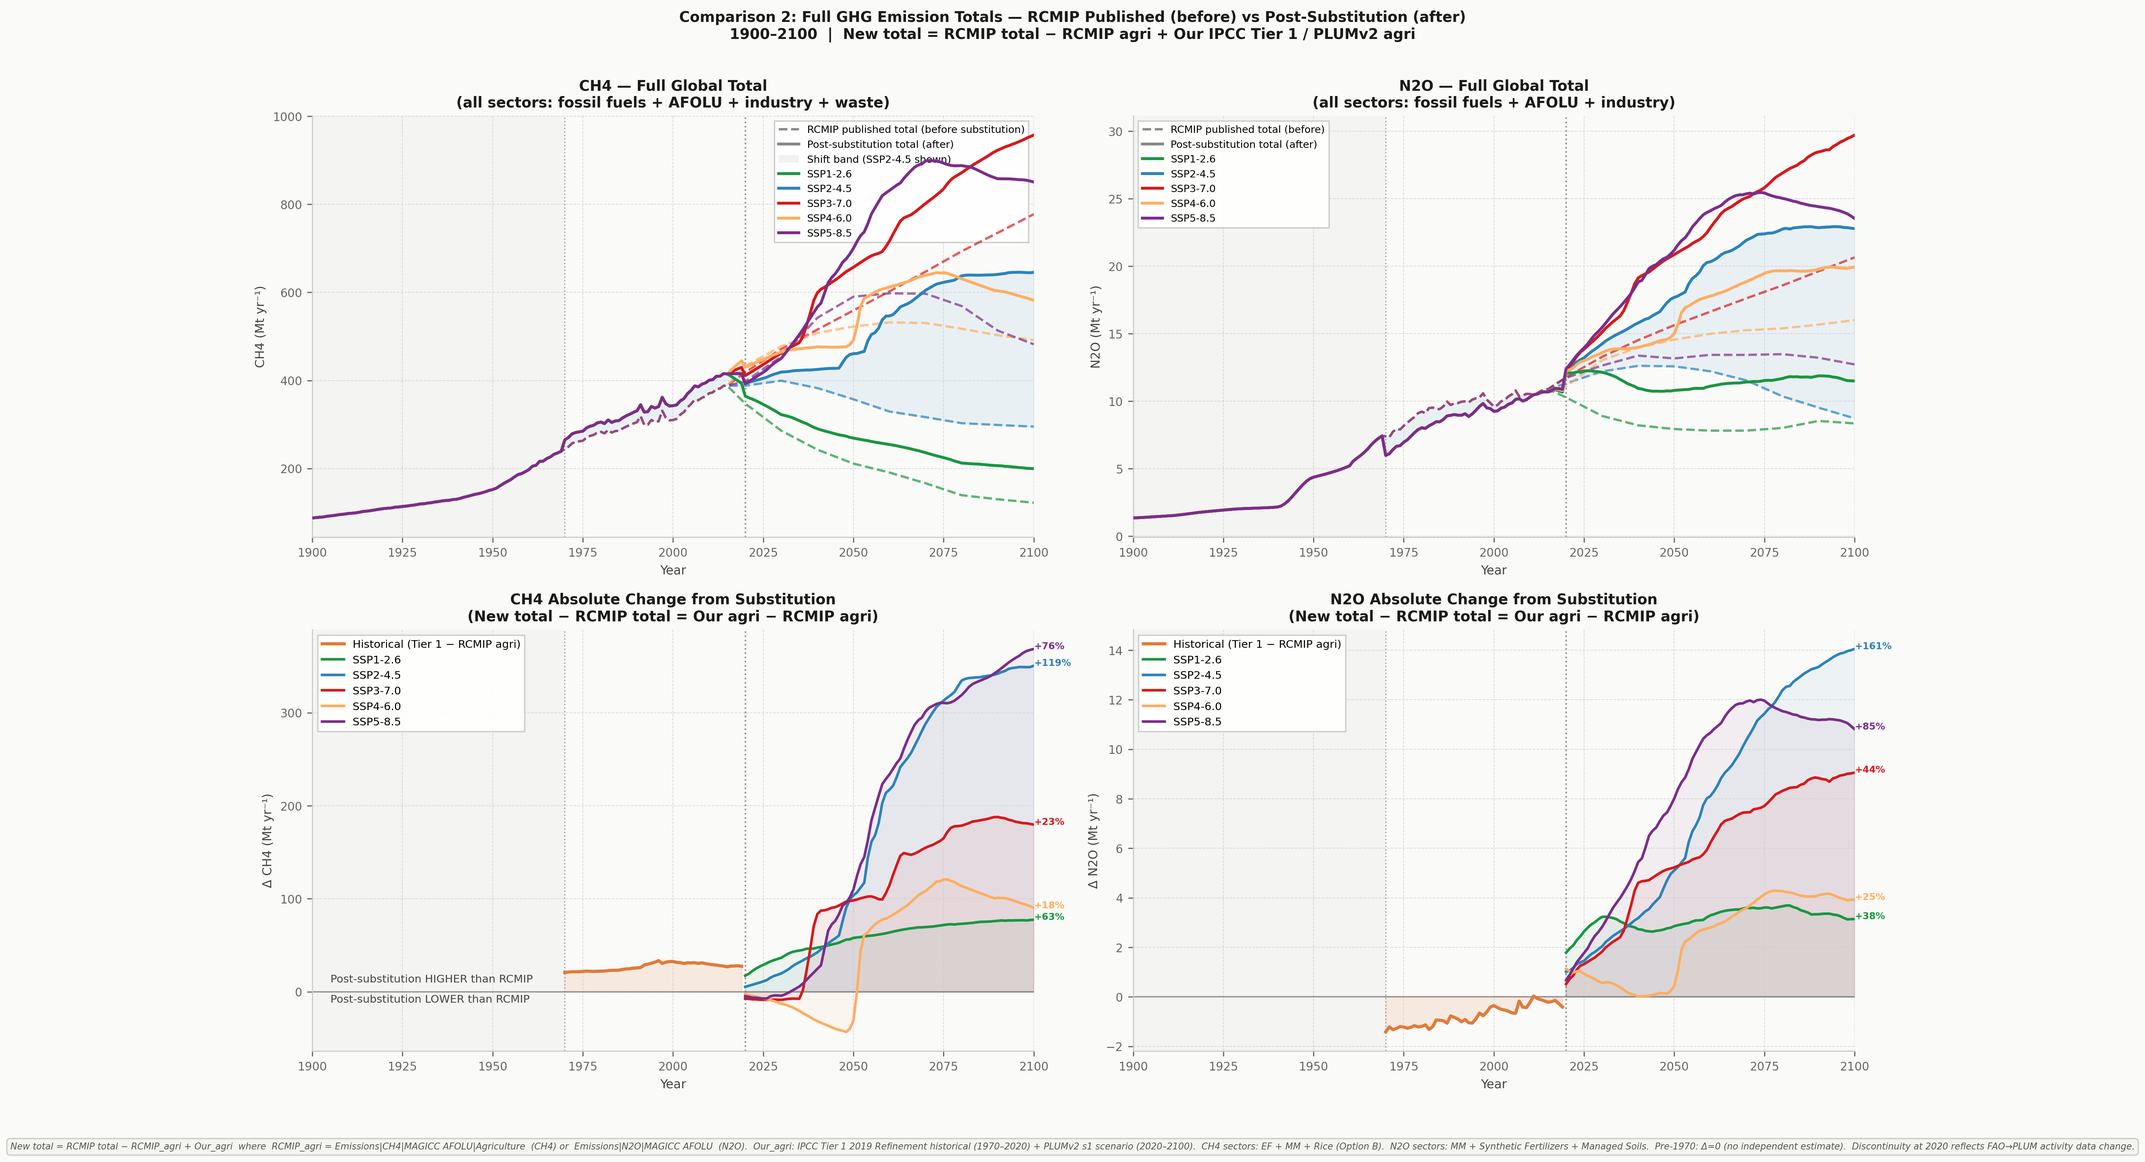
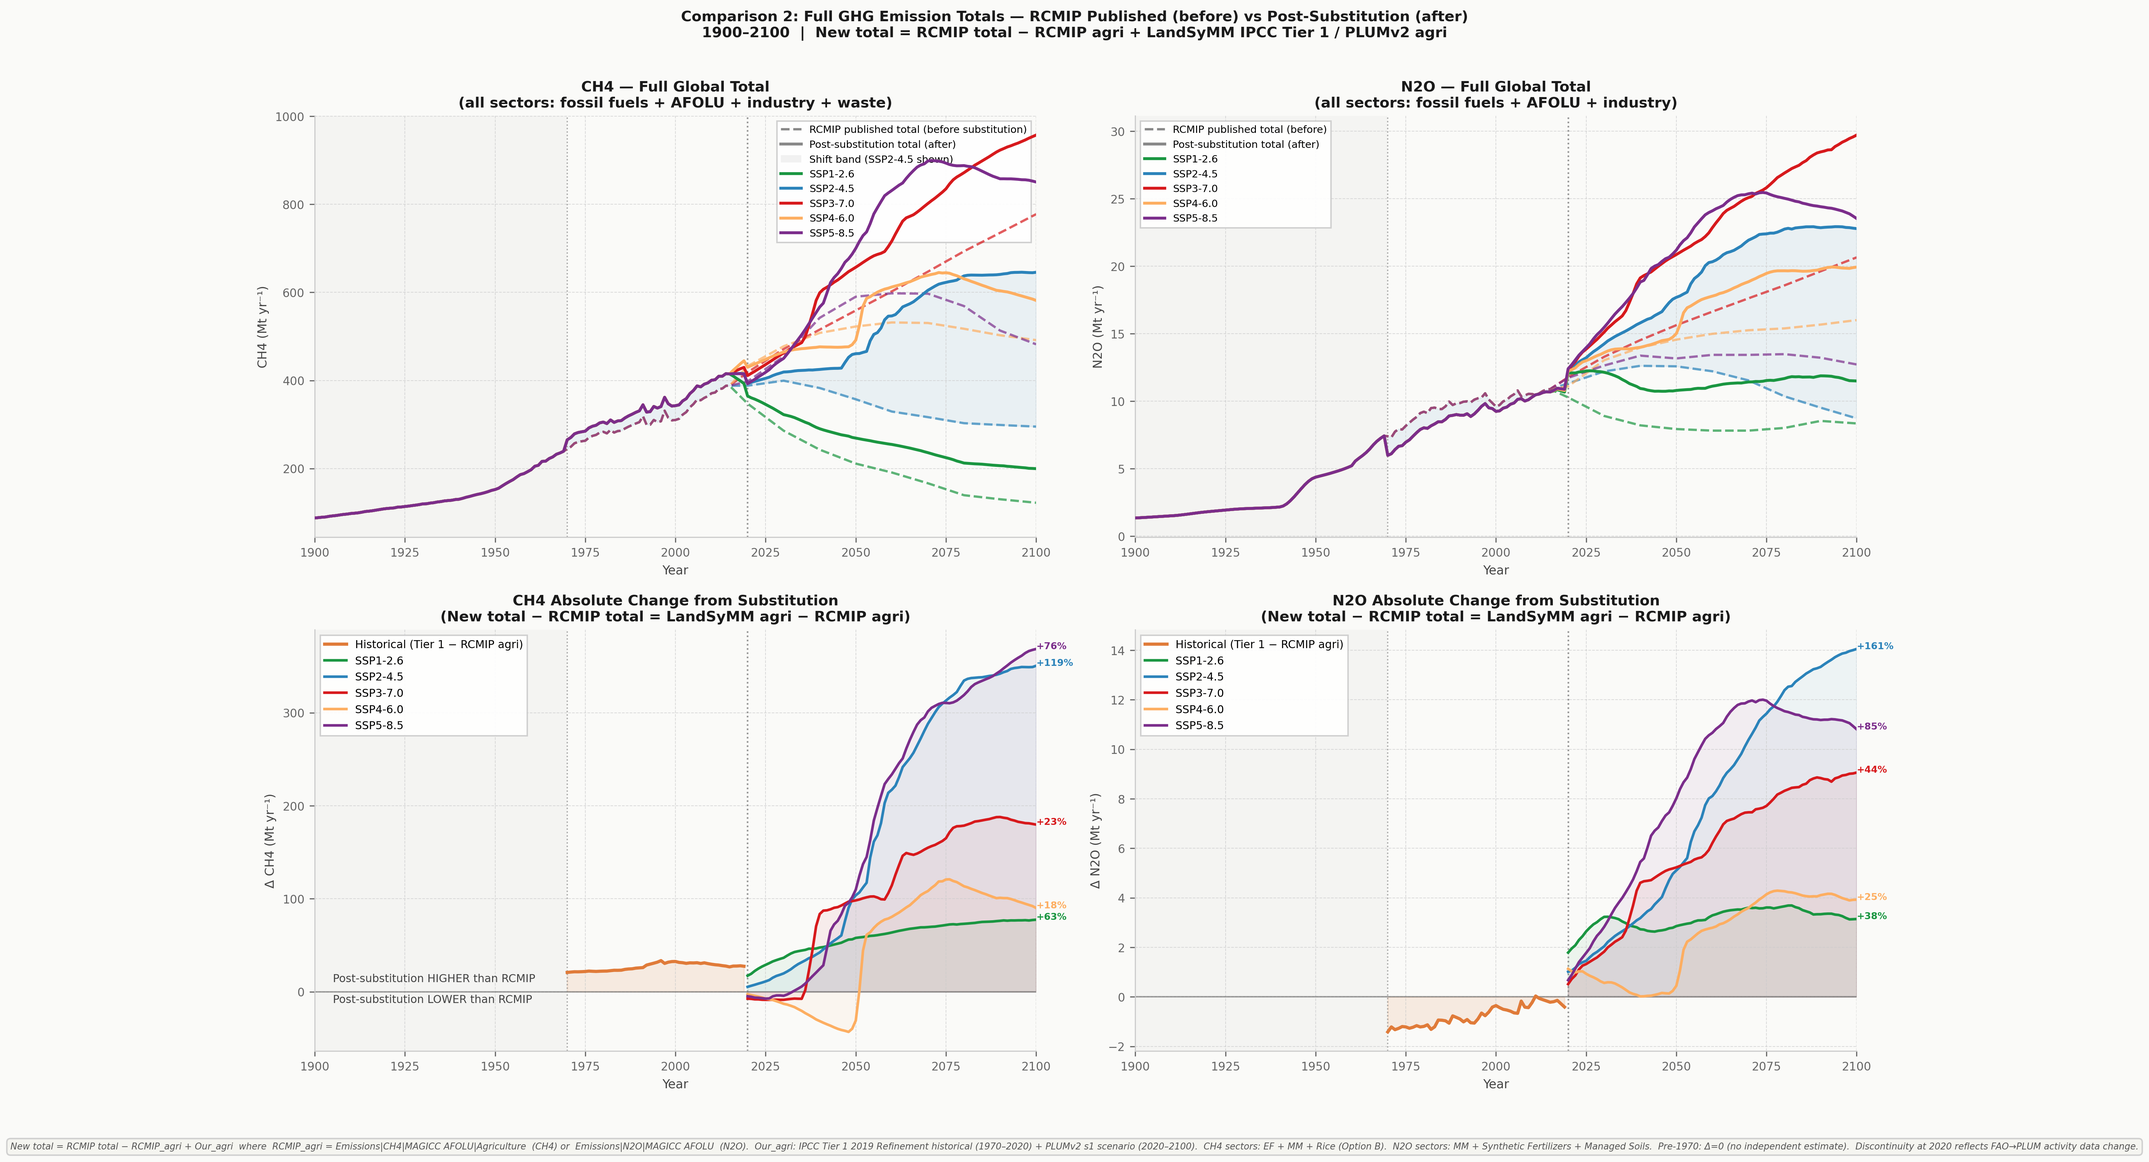
paper: LandSyMM rebranding of emissions plot labels + rice SFo KNOWN ISSUE docs
Relabel emissions-comparison plots (component_a historical/scenario/rcmip_substitution
and component_c integration) from "Our IPCC Tier 1 / Our estimate" to "LandSyMM ...",
matching the manuscript naming; regenerate the affected trend/comparison PNGs.

Document (do not fix) the irrigated-rice SFo organic-amendment scaling as a KNOWN
ISSUE in ch4_rice_processing.py and 06_scenario_ch4_rice_processing.py: code uses
IPCC Eq. 5.3 "Form B" [1 + (ROA*CFOA)^0.59] vs published "Form A"
(1 + sum ROA*CFOA)^0.59 (~+30% on the amendment term, ~1% on total CH4); deferred
to avoid a Component-A/production rerun.

diff --git a/intermediary_py/imogen_ghg_controller/src/component_a_anthropogenic/rcmip_substitution/rcmip_comparison1_plotting.py b/intermediary_py/imogen_ghg_controller/src/component_a_anthropogenic/rcmip_substitution/rcmip_comparison1_plotting.py
@@ -104,7 +104,7 @@ fig, axes = plt.subplots(2, 2, figsize=(16, 11))
 fig.patch.set_facecolor('#fafaf8')
 for ax in axes.flat: ax.set_facecolor('#fafaf8')
 fig.suptitle(
-    'Comparison 1: Agricultural Sector GHG Emissions — RCMIP Baseline vs Our IPCC Tier 1 / PLUMv2 Estimates\n'
+    'Comparison 1: Agricultural Sector GHG Emissions — RCMIP Baseline vs LandSyMM IPCC Tier 1 / PLUMv2 Estimates\n'
     '1900\u20132100  |  Five SSP-RCP scenarios  |  '
     'CH4: EF + MM + Rice  |  N2O: MM + Synthetic Fertilizers + Managed Soils',
     fontsize=10, fontweight='bold', color='#1a1a1a', y=0.995)
@@ -116,14 +116,14 @@ legend_handles = [
     Line2D([0],[0], color=C_RCMIP_PRE, lw=1.8, ls='--',
            label='RCMIP baseline (MAGICC AFOLU|Agriculture)\nhistorical 1900\u20132014, then SSP 2015\u20132100 [dashed]'),
     Line2D([0],[0], color=C_HIST_OUR, lw=2.2, ls='-',
-           label='Our IPCC Tier 1 historical (1970\u20132020)\n[orange solid]'),
+           label='LandSyMM IPCC Tier 1 historical (1970\u20132020)\n[orange solid]'),
     Line2D([0],[0], color='#333333', lw=1.2, ls=':',
            label='Vertical lines: 1970 (inventory start) | 2020 (hist\u2192scenario splice)'),
 ]
 for s in SCENARIOS:
     legend_handles.append(
         Line2D([0],[0], color=COLORS[s], lw=2,
-               label=f'{s}  RCMIP=dashed  Our PLUMv2=solid')
+               label=f'{s}  RCMIP=dashed  LandSyMM PLUMv2=solid')
     )
 
 # ── Panel 1: CH4 agricultural sectors ────────────────────────────────────────
@@ -191,9 +191,9 @@ n2o_handles = [
     Line2D([0],[0], color=C_RCMIP_PRE, lw=1.8, ls='--',
            label='RCMIP AFOLU baseline (dashed)'),
     Line2D([0],[0], color=C_HIST_OUR,  lw=2.2, ls='-',
-           label='Our Tier 1 historical (solid orange)'),
+           label='LandSyMM Tier 1 historical (solid orange)'),
 ] + [Line2D([0],[0], color=COLORS[s], lw=2,
-            label=f'{s}  RCMIP=dashed / Ours=solid') for s in SCENARIOS]
+            label=f'{s}  RCMIP=dashed / LandSyMM=solid') for s in SCENARIOS]
 ax.legend(handles=n2o_handles, fontsize=7, loc='upper left',
           framealpha=0.92, edgecolor=SC, fancybox=False)
 
@@ -217,11 +217,11 @@ for s in SCENARIOS:
                     alpha=0.06, color=COLORS[s])
 
 ax.axhline(0, color='#888888', lw=1.0, ls='-', alpha=0.5)
-ax.text(1905, 2, 'Our estimate ABOVE RCMIP', fontsize=7.5,
+ax.text(1905, 2, 'LandSyMM estimate ABOVE RCMIP', fontsize=7.5,
         color='#444444', va='bottom')
-ax.text(1905, -2, 'Our estimate BELOW RCMIP', fontsize=7.5,
+ax.text(1905, -2, 'LandSyMM estimate BELOW RCMIP', fontsize=7.5,
         color='#444444', va='top')
-ax.set_title('CH4 Difference: Our Estimate \u2212 RCMIP Baseline', **TK)
+ax.set_title('CH4 Difference: LandSyMM Estimate \u2212 RCMIP Baseline', **TK)
 ax.set_ylabel('\u0394 CH4 (Mt yr\u207b\u00b9)', **LK)
 ax.set_xlabel('Year', **LK)
 style_ax(ax)
@@ -246,7 +246,7 @@ for s in SCENARIOS:
                     alpha=0.06, color=COLORS[s])
 
 ax.axhline(0, color='#888888', lw=1.0, ls='-', alpha=0.5)
-ax.set_title('N2O Difference: Our Estimate \u2212 RCMIP Baseline', **TK)
+ax.set_title('N2O Difference: LandSyMM Estimate \u2212 RCMIP Baseline', **TK)
 ax.set_ylabel('\u0394 N2O (Mt yr\u207b\u00b9)', **LK)
 ax.set_xlabel('Year', **LK)
 style_ax(ax)

diff --git a/intermediary_py/imogen_ghg_controller/src/component_a_anthropogenic/historical/ch4_rice_plotting.py b/intermediary_py/imogen_ghg_controller/src/component_a_anthropogenic/historical/ch4_rice_plotting.py
@@ -63,7 +63,7 @@ fig.suptitle('CH4 Emissions -- Rice Cultivation\nIPCC 2019 Tier 1 vs FAO FAOSTAT
 ax=axes[0,0]; ax.fill_between(yr,fao,our,alpha=0.10,color=CO)
 ax.plot(yr,rcmip_rice,color=CR,linewidth=2.0,linestyle=RL,label='RCMIP CMIP6 (EDGAR prop.)')
 ax.plot(yr,edgar,color=CE,linewidth=1.8,linestyle='-.',label='EDGAR 2025 (3.C.7)')
-ax.plot(yr,our,color=CO,linewidth=2.0,label='Our IPCC 2019 Tier 1')
+ax.plot(yr,our,color=CO,linewidth=2.0,label='LandSyMM IPCC 2019 Tier 1')
 ax.plot(yr,fao,color=CF,linewidth=2.5,linestyle=':',label='FAO TIER 1')
 ax.set_title('Global CH4 Totals',**TK); ax.set_ylabel('CH4 (Mt yr\u207b\u00b9)',**LK); ax.set_xlabel('Year',**LK); sax(ax,(15,40)); ax.legend(fontsize=8,loc='upper left',framealpha=0.9,edgecolor=SC,fancybox=False)
 ax=axes[0,1]; ax.stackplot(yr,[irrig,rainfed],labels=['Irrigated','Rainfed'],colors=['#3288bd','#66c2a5'],alpha=0.80)
@@ -76,7 +76,7 @@ _lo,_hi=emp_band(fao,our,edgar,rcmip_rice)
 ax.fill_between(yr,_lo,_hi,alpha=0.18,color='#888888',label='Inter-method spread')
 ax.plot(yr,rcmip_rice/fao,color=CR,linewidth=2.0,linestyle=RL,label='RCMIP-derived / FAO')
 ax.plot(yr,edgar/fao,color=CE,linewidth=1.8,linestyle='-.',label='EDGAR / FAO')
-ax.plot(yr,our/fao,color=CO,linewidth=2.0,label='Our estimate / FAO')
+ax.plot(yr,our/fao,color=CO,linewidth=2.0,label='LandSyMM estimate / FAO')
 ax.set_title('Ratio to FAO Published CH4',**TK); ax.set_ylabel('Ratio (Series / FAO)',**LK); ax.set_xlabel('Year',**LK); sax(ax,(0.85,1.45)); ax.legend(fontsize=8,loc='upper right',framealpha=0.9,edgecolor=SC,fancybox=False)
 ax=axes[1,1]; ax.stackplot(yr,[rr.get(r,np.zeros(51)) for r in RR],labels=RR,colors=[RC2[r] for r in RR],alpha=0.80)
 ax.plot(yr,rcmip_rice,color=CR,linewidth=2.0,linestyle=RL,label='RCMIP total',zorder=11)

diff --git a/intermediary_py/imogen_ghg_controller/src/component_a_anthropogenic/historical/ch4_mm_plotting.py b/intermediary_py/imogen_ghg_controller/src/component_a_anthropogenic/historical/ch4_mm_plotting.py
@@ -71,7 +71,7 @@ fig.suptitle('CH4 Emissions -- Manure Management\nIPCC 2019 Tier 1 vs FAO FAOSTA
 ax=axes[0,0]; ax.fill_between(yr,fao,our,alpha=0.10,color=CO)
 ax.plot(yr,rcmip_mm,color=CR,linewidth=2.0,linestyle=RL,label='RCMIP CMIP6 (EDGAR prop.)')
 ax.plot(yr,edgar,color=CE,linewidth=1.8,linestyle='-.',label='EDGAR 2025 (3.A.2)')
-ax.plot(yr,our,color=CO,linewidth=2.0,label='Our IPCC 2019 Tier 1')
+ax.plot(yr,our,color=CO,linewidth=2.0,label='LandSyMM IPCC 2019 Tier 1')
 ax.plot(yr,fao,color=CF,linewidth=2.5,linestyle=':',label='FAO TIER 1')
 ax.set_title('Global CH4 Totals',**TK); ax.set_ylabel('CH4 (Mt yr\u207b\u00b9)',**LK); ax.set_xlabel('Year',**LK); sax(ax,(5,18)); ax.legend(fontsize=8,loc='upper left',framealpha=0.9,edgecolor=SC,fancybox=False)
 ax=axes[0,1]; ax.stackplot(yr,sp,labels=SPL,colors=SC2,alpha=0.80)
@@ -84,7 +84,7 @@ _lo,_hi=emp_band(fao,our,edgar,rcmip_mm)
 ax.fill_between(yr,_lo,_hi,alpha=0.18,color='#888888',label='Inter-method spread')
 ax.plot(yr,rcmip_mm/fao,color=CR,linewidth=2.0,linestyle=RL,label='RCMIP-derived / FAO')
 ax.plot(yr,edgar/fao,color=CE,linewidth=1.8,linestyle='-.',label='EDGAR / FAO')
-ax.plot(yr,our/fao,color=CO,linewidth=2.0,label='Our estimate / FAO')
+ax.plot(yr,our/fao,color=CO,linewidth=2.0,label='LandSyMM estimate / FAO')
 ax.set_title('Ratio to FAO Published CH4',**TK); ax.set_ylabel('Ratio (Series / FAO)',**LK); ax.set_xlabel('Year',**LK); sax(ax,(0.85,1.65)); ax.legend(fontsize=8,loc='upper left',framealpha=0.9,edgecolor=SC,fancybox=False)
 ax=axes[1,1]; ro=['Indian Subcontinent','Asia','Latin America','Africa','North America','Eastern Europe','Western Europe','Middle East','Oceania']
 ax.stackplot(yr,[rd.get(r,np.zeros(51)) for r in ro],labels=ro,colors=[RC[r] for r in ro],alpha=0.80)

diff --git a/intermediary_py/imogen_ghg_controller/src/component_a_anthropogenic/historical/ch4_ef_plotting.py b/intermediary_py/imogen_ghg_controller/src/component_a_anthropogenic/historical/ch4_ef_plotting.py
@@ -128,7 +128,7 @@ ax = axes[0,0]
 ax.fill_between(yr, fao, our_tot, alpha=0.10, color=C_OUR)
 ax.plot(yr, rcmip_ef,  color=C_RCP, linewidth=2.0, linestyle=RLS,  label='RCMIP CMIP6 (EDGAR prop.)')
 ax.plot(yr, edgar,     color=C_EDG, linewidth=1.8, linestyle='-.', label='EDGAR 2025 (3.A.1)')
-ax.plot(yr, our_tot,   color=C_OUR, linewidth=2.0,                 label='Our IPCC 2019 Tier 1')
+ax.plot(yr, our_tot,   color=C_OUR, linewidth=2.0,                 label='LandSyMM IPCC 2019 Tier 1')
 ax.plot(yr, fao,       color=C_FAO, linewidth=2.5, linestyle=':',  label='FAO TIER 1')
 ax.set_title('Global CH4 Totals', **TK)
 ax.set_ylabel('CH4 (Mt yr⁻¹)', **LK); ax.set_xlabel('Year', **LK)
@@ -150,10 +150,10 @@ ax.legend(fontsize=7, loc='upper left', framealpha=0.9, edgecolor=SC, fancybox=F
 ax = axes[1,0]
 ax.axhline(1.0, color='#888888', linewidth=1.2)
 _lo,_hi=emp_band(fao,our_tot,edgar,rcmip_ef)
-ax.fill_between(yr,_lo,_hi,alpha=0.18,color='#888888',label='Inter-method spread (Our/FAO, EDGAR/FAO, RCMIP/FAO)')
+ax.fill_between(yr,_lo,_hi,alpha=0.18,color='#888888',label='Inter-method spread (LandSyMM/FAO, EDGAR/FAO, RCMIP/FAO)')
 ax.plot(yr, rcmip_ef/fao, color=C_RCP, linewidth=2.0, linestyle=RLS,  label='RCMIP-derived / FAO')
 ax.plot(yr, edgar/fao,    color=C_EDG, linewidth=1.8, linestyle='-.', label='EDGAR / FAO')
-ax.plot(yr, our_tot/fao,  color=C_OUR, linewidth=2.0,                 label='Our estimate / FAO')
+ax.plot(yr, our_tot/fao,  color=C_OUR, linewidth=2.0,                 label='LandSyMM estimate / FAO')
 ax.set_title('Ratio to FAO Published CH4', **TK)
 ax.set_ylabel('Ratio (Series / FAO)', **LK); ax.set_xlabel('Year', **LK)
 sax(ax, (0.70,1.55))

diff --git a/intermediary_py/imogen_ghg_controller/src/component_a_anthropogenic/rcmip_substitution/rcmip_comparison2_plotting.py b/intermediary_py/imogen_ghg_controller/src/component_a_anthropogenic/rcmip_substitution/rcmip_comparison2_plotting.py
@@ -76,7 +76,7 @@ for ax in axes.flat: ax.set_facecolor('#fafaf8')
 fig.suptitle(
     'Comparison 2: Full GHG Emission Totals — RCMIP Published (before) vs '
     'Post-Substitution (after)\n'
-    '1900\u20132100  |  New total = RCMIP total \u2212 RCMIP agri + Our IPCC Tier 1 / PLUMv2 agri',
+    '1900\u20132100  |  New total = RCMIP total \u2212 RCMIP agri + LandSyMM IPCC Tier 1 / PLUMv2 agri',
     fontsize=10, fontweight='bold', color='#1a1a1a', y=0.995)
 
 # Reference arrays: SSP2-4.5 historical segment (1970-2019) for single difference line
@@ -181,7 +181,7 @@ ax.text(1905, 8, 'Post-substitution HIGHER than RCMIP', fontsize=7.5,
 ax.text(1905, -3, 'Post-substitution LOWER than RCMIP', fontsize=7.5,
         color='#444444', va='top')
 ax.set_title('CH4 Absolute Change from Substitution\n'
-             '(New total \u2212 RCMIP total = Our agri \u2212 RCMIP agri)', **TK)
+             '(New total \u2212 RCMIP total = LandSyMM agri \u2212 RCMIP agri)', **TK)
 ax.set_ylabel('\u0394 CH4 (Mt yr\u207b\u00b9)', **LK)
 ax.set_xlabel('Year', **LK)
 style_ax(ax)
@@ -209,7 +209,7 @@ for s in SCENARIOS:
 
 ax.axhline(0, color='#666666', lw=1.0, alpha=0.6)
 ax.set_title('N2O Absolute Change from Substitution\n'
-             '(New total \u2212 RCMIP total = Our agri \u2212 RCMIP agri)', **TK)
+             '(New total \u2212 RCMIP total = LandSyMM agri \u2212 RCMIP agri)', **TK)
 ax.set_ylabel('\u0394 N2O (Mt yr\u207b\u00b9)', **LK)
 ax.set_xlabel('Year', **LK)
 style_ax(ax)

diff --git a/intermediary_py/imogen_ghg_controller/src/component_a_anthropogenic/scenarios/06_scenario_ch4_rice_processing.py b/intermediary_py/imogen_ghg_controller/src/component_a_anthropogenic/scenarios/06_scenario_ch4_rice_processing.py
@@ -160,7 +160,16 @@ SFP = 1.00
 # Organic amendment scaling — Table 5.14 (Eq. 5.3: 1 + (ROA×CFOA)^0.59)
 # Irrigated: 2 t/ha dry straw incorporated (Yan et al. global median)
 ROA_STRAW  = 2.0;  CFOA_STRAW = 1.00;  EXP_SFO = 0.59
-SFO_IRRIGATED = 1.0 + (ROA_STRAW * CFOA_STRAW) ** EXP_SFO   # = 2.508
+# KNOWN ISSUE (flagged 2026-05-30): the line below is IPCC Eq. 5.3 "Form B"
+# [ 1 + (ROA*CFOA)^0.59 ]. The published 2019 Refinement Eq. 5.3 (Vol.4 Ch.5,
+# p.5.55) is "Form A": SFo = (1 + sum_i ROA_i*CFOA_i)^0.59 — the 0.59 exponent
+# applies to the WHOLE (1 + sum). For ROA=2, CFOA=1.0 this overstates irrigated
+# SFo: Form B = 2.508 vs correct Form A = (1+2)^0.59 = 1.927 (~ +30% on the
+# amendment term). Deliberately left unfixed for now to avoid a Component-A /
+# production rerun (effect on total CH4 ~1%); see paper/PAPER_REVAMP_PLAN_AND_LOG.md
+# §13. Revisit before any final emissions release. Correct form would be:
+#   SFO_IRRIGATED = (1.0 + ROA_STRAW * CFOA_STRAW) ** EXP_SFO
+SFO_IRRIGATED = 1.0 + (ROA_STRAW * CFOA_STRAW) ** EXP_SFO   # = 2.508 (Form B; see note above)
 SFO_RAINFED   = 1.00   # straw burned/removed in rainfed systems
 
 # Pre-compute adjusted daily EF per RICE REGION × water class

diff --git a/intermediary_py/imogen_ghg_controller/src/component_c_integration/external_comparators_plotting.py b/intermediary_py/imogen_ghg_controller/src/component_c_integration/external_comparators_plotting.py
@@ -168,7 +168,7 @@ for ax in axes.flat: ax.set_facecolor('#fafaf8')
 
 fig.suptitle(
     'Integrated GHG Emission Trajectories vs Independent External Comparators | 1900-2100 | Five SSP-RCP Scenarios\n'
-    'Our integrated total = anthropogenic (RCMIP-substituted CH4/N2O or RCMIP EFOS for CO2) + natural (LPJ-GUESS DGVM)\n'
+    'LandSyMM integrated total = anthropogenic (RCMIP-substituted CH4/N2O or RCMIP EFOS for CO2) + natural (LPJ-GUESS DGVM)\n'
     'External comparator = atmospheric-inversion top-down totals (GMB 2025 / GNB 2024) or budget partition (GCB 2025)',
     fontsize=11, fontweight='bold', color='#1a1a1a', y=0.995)
 
@@ -251,7 +251,7 @@ def panel_residuals(ax, gas):
     ax.axhline(0, color='#888888', lw=0.7, alpha=0.5)
     ax.set_xticks(x_periods)
     ax.set_xticklabels(cmp['Period_label'].values, fontsize=8)
-    ax.set_title(f'{gas} residual: Our integrated − comparator best',
+    ax.set_title(f'{gas} residual: LandSyMM integrated − comparator best',
                  fontsize=10, fontweight='bold', color='#1a1a1a', pad=4)
     ax.set_ylabel(f'Δ ({UNIT[gas]})', **LK)
     ax.set_xlabel('Reference period', **LK)

diff --git a/intermediary_py/imogen_ghg_controller/src/component_a_anthropogenic/historical/ch4_rice_processing.py b/intermediary_py/imogen_ghg_controller/src/component_a_anthropogenic/historical/ch4_rice_processing.py
@@ -327,6 +327,15 @@ ROA_STRAW     = 2.0    # tonne ha-1 (dry weight), global median from Yan et al.
 CFOA_STRAW    = 1.00   # straw incorporated <30 days before cultivation, Table 5.14
 EXP_SFO       = 0.59   # exponent in Equation 5.3
 
+# KNOWN ISSUE (flagged 2026-05-30): the line below is IPCC Eq. 5.3 "Form B"
+# [ 1 + (ROA*CFOA)^0.59 ]. The published 2019 Refinement Eq. 5.3 (Vol.4 Ch.5,
+# p.5.55) is "Form A": SFo = (1 + sum_i ROA_i*CFOA_i)^0.59 — the 0.59 exponent
+# applies to the WHOLE (1 + sum). For ROA=2, CFOA=1.0 this overstates irrigated
+# SFo: Form B = 2.508 vs correct Form A = (1+2)^0.59 = 1.927 (~ +30% on the
+# amendment term). Deliberately left unfixed for now to avoid a Component-A /
+# production rerun (effect on total CH4 ~1%); see paper/PAPER_REVAMP_PLAN_AND_LOG.md
+# §13. Revisit before any final emissions release. Correct form would be:
+#   SFO_IRRIGATED = (1.0 + ROA_STRAW * CFOA_STRAW) ** EXP_SFO
 SFO_IRRIGATED = 1.0 + (ROA_STRAW * CFOA_STRAW) ** EXP_SFO
 SFO_RAINFED   = 1.00   # rainfed/upland: straw typically burned or removed
 SFO_UPLAND    = 1.00

diff --git a/intermediary_py/imogen_ghg_controller/src/component_a_anthropogenic/historical/n2o_ms_plotting.py b/intermediary_py/imogen_ghg_controller/src/component_a_anthropogenic/historical/n2o_ms_plotting.py
@@ -176,7 +176,7 @@ ax.legend(fontsize=8, loc="lower left", framealpha=0.9, edgecolor=SC, fancybox=F
 ax = axes[1,1]
 ax.stackplot(yr, [reg_np19.get(r,np.zeros(51)) for r in ro], labels=ro,
              colors=[RC_COLS[r] for r in ro], alpha=0.80)
-ax.plot(yr, t_wp19,   color=C_WP19, linewidth=2.0, linestyle="-",  label="Our total WITH PRP", zorder=13)
+ax.plot(yr, t_wp19,   color=C_WP19, linewidth=2.0, linestyle="-",  label="LandSyMM total WITH PRP", zorder=13)
 ax.plot(yr, fao_wp,   color=C_FAO,  linewidth=2.0, linestyle=":",   label="FAO total WITH PRP", zorder=12)
 ax.plot(yr, fao_np,   color=C_FAO,  linewidth=1.5, linestyle="-.",  label="FAO total without PRP", zorder=12)
 ax.plot(yr, rcmip_ms, color=C_RCP,  linewidth=2.0, linestyle=RLS,   label="RCMIP total", zorder=11)

diff --git a/intermediary_py/imogen_ghg_controller/src/component_c_integration/conventional_comparator_plotting.py b/intermediary_py/imogen_ghg_controller/src/component_c_integration/conventional_comparator_plotting.py
@@ -268,7 +268,7 @@ def panel_residual(ax, gas, ylim=None):
     ax.axvline(1970, color='#888888', lw=0.6, ls=':', alpha=0.5)
     ax.axvline(HIST_END + 0.5, color='#888888', lw=0.7, ls=':', alpha=0.65)
     if ylim is not None: ax.set_ylim(*ylim)
-    ax.set_title(f'Δ {gas}: Our integrated − conventional comparator (10-yr running mean)',
+    ax.set_title(f'Δ {gas}: LandSyMM integrated − conventional comparator (10-yr running mean)',
                  fontsize=10, fontweight='bold', color='#1a1a1a', pad=4)
     ax.set_ylabel(f'Δ ({UNIT[gas]})', **LK)
     ax.set_xlabel('Year', **LK)

diff --git a/intermediary_py/imogen_ghg_controller/src/component_c_integration/hybrid_comparator_plotting.py b/intermediary_py/imogen_ghg_controller/src/component_c_integration/hybrid_comparator_plotting.py
@@ -296,7 +296,7 @@ def panel_residual(ax, gas, ylim=None):
     ax.axvline(1970, color='#888888', lw=0.6, ls=':', alpha=0.5)
     ax.axvline(HIST_END + 0.5, color='#888888', lw=0.7, ls=':', alpha=0.65)
     if ylim is not None: ax.set_ylim(*ylim)
-    ax.set_title(f'Δ {gas}: Our integrated − hybrid comparator (10-yr running mean)',
+    ax.set_title(f'Δ {gas}: LandSyMM integrated − hybrid comparator (10-yr running mean)',
                  fontsize=10, fontweight='bold', color='#1a1a1a', pad=4)
     ax.set_ylabel(f'Δ ({UNIT[gas]})', **LK)
     ax.set_xlabel('Year', **LK)

diff --git a/intermediary_py/imogen_ghg_controller/src/component_a_anthropogenic/scenarios/03_scenario_n2o_mm_plotting.py b/intermediary_py/imogen_ghg_controller/src/component_a_anthropogenic/scenarios/03_scenario_n2o_mm_plotting.py
@@ -180,7 +180,7 @@ for s in SCENARIOS:
     ax.plot(d['yrs'],d['vals'],color=COLORS[s],lw=2.0,zorder=12)
 
 legend_handles = [
-    Line2D([0],[0],color=C_HIST, lw=2,  label='Our IPCC Tier 1 (2006-split)'),
+    Line2D([0],[0],color=C_HIST, lw=2,  label='LandSyMM IPCC Tier 1 (2006-split)'),
     Line2D([0],[0],color=C_FAO,  lw=1.8,ls=':',label='FAO TIER 1'),
     Line2D([0],[0],color=C_RCMIP,lw=1.5,ls=(0,(4,1,1,1)),alpha=0.75,
            label='RCMIP \u00d7 EDGAR 3.A.2 prop. (hist. only;\nEDGAR 3.A.2 excludes PRP \u2014 lower bound)'),
